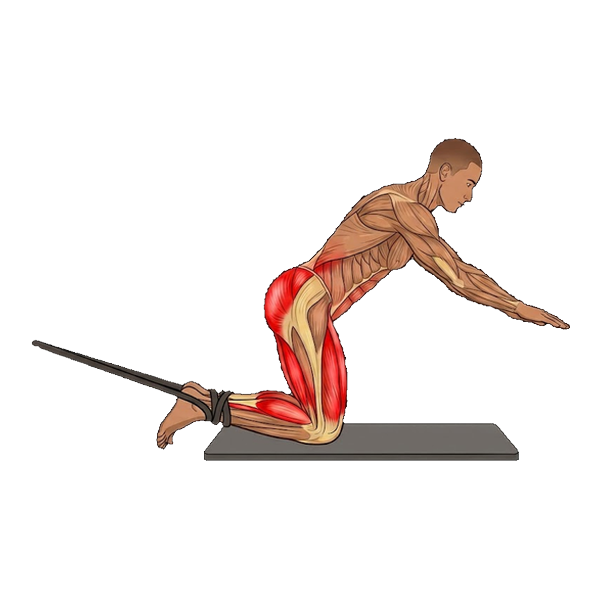
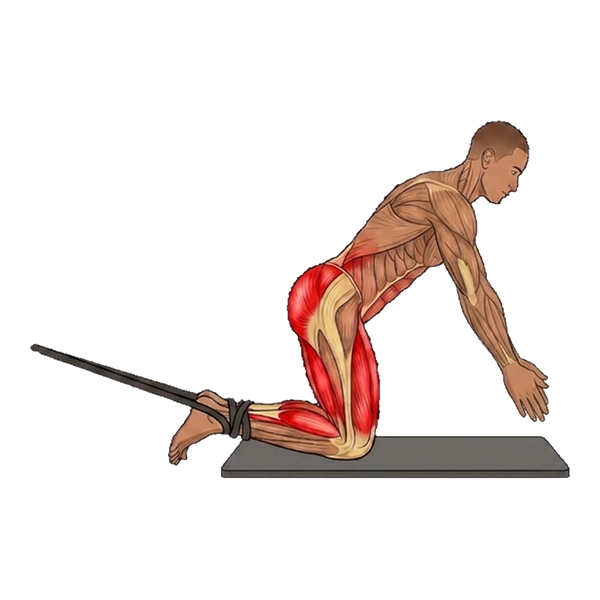
fix(assets): distinct correct Nordic Partial ROM illustration

Changed region(s): [[0.03, 0.18, 0.96, 0.81]]

diff --git a/sw.js b/sw.js
@@ -1,4 +1,4 @@
-const CACHE_NAME = 'fitup-v232-authentic-ecorche-precision';
+const CACHE_NAME = 'fitup-v233-nordic-partial-fix';
 const MEDIA_CACHE = 'fitup-media-cache-v1';
 const ASSETS = [
   './',
